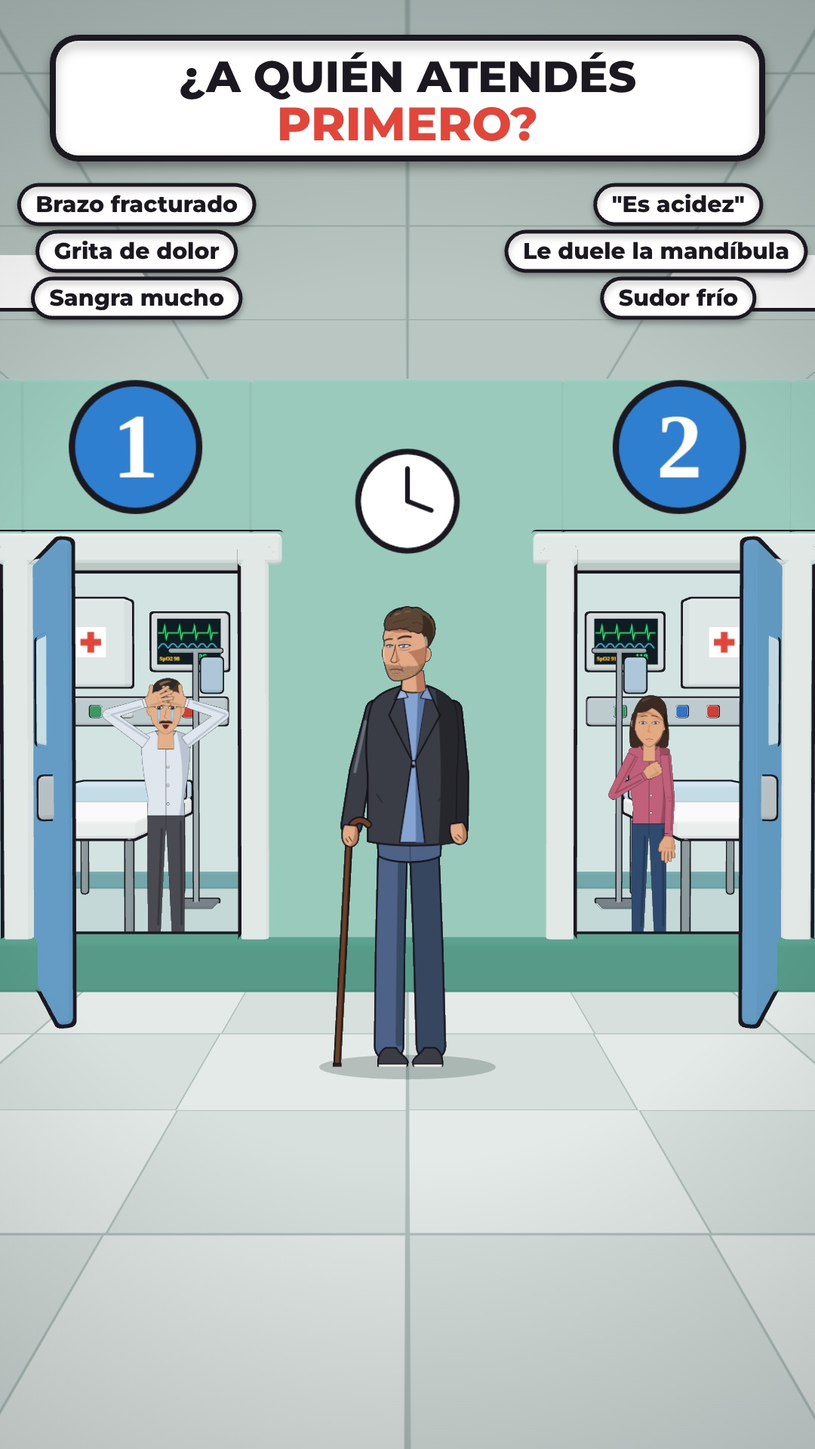
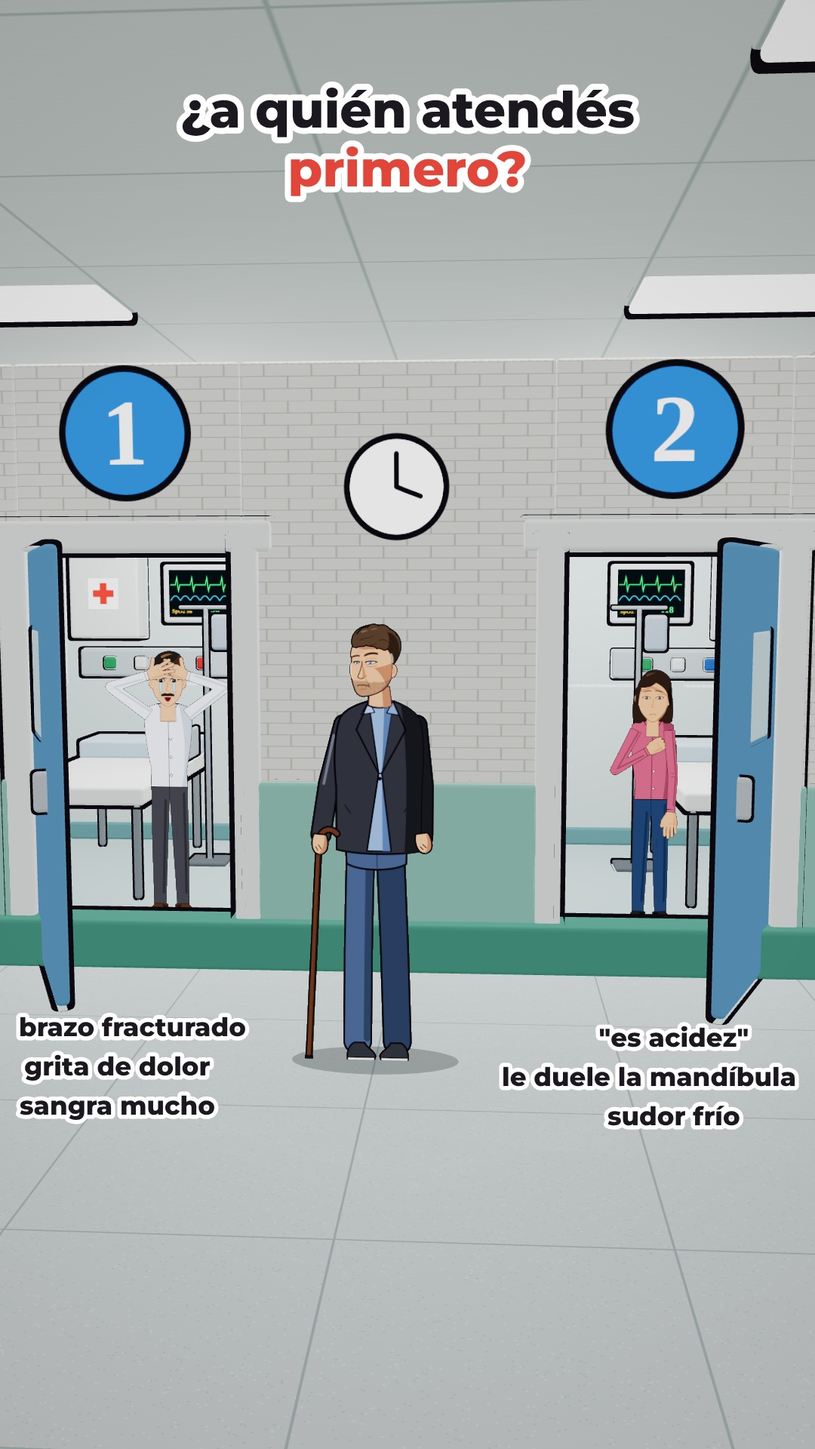
Puertas 3D: look más cercano al video de referencia (sombras suaves, azulejos, cámara en diagonal, textos con borde)
Claude-Session: https://claude.ai/code/session_01GkkXfD2Nm3TmxvYx4d4aPy

diff --git a/herramientas/marvel/puertas3d_v1.js b/herramientas/marvel/puertas3d_v1.js
@@ -1,0 +1,152 @@
+// "Elegí la puerta": mundo 3D con acabado de dibujo (cel shading + contorno) y personajes 2D.
+import * as THREE from 'three';
+import { RoundedBoxGeometry } from 'three/addons/geometries/RoundedBoxGeometry.js';
+import { drawCharacter } from './estilo.js';
+import { EXPR, POSE } from './expr.js';
+import { houseFull } from './housefull.js';
+const W = 1080, H = 1920, Q = new URLSearchParams(location.search), REVEAL = !!Q.get('reveal');
+const INK = '#1b1820';
+const R = new THREE.WebGLRenderer({ antialias: true, preserveDrawingBuffer: true }); R.setSize(W, H); R.setPixelRatio(1); R.outputColorSpace = THREE.SRGBColorSpace;
+const S = new THREE.Scene(); S.background = new THREE.Color('#cfe6e0');
+const cam = new THREE.PerspectiveCamera(64, W / H, .05, 100);
+const grad = (() => { const c = document.createElement('canvas'); c.width = 3; c.height = 1; const x = c.getContext('2d'); ['#a3a3a3', '#dcdcdc', '#ffffff'].forEach((col, i) => { x.fillStyle = col; x.fillRect(i, 0, 1, 1); }); const t = new THREE.CanvasTexture(c); t.minFilter = t.magFilter = THREE.NearestFilter; t.generateMipmaps = false; return t; })();
+const toon = (c, map, ex = {}) => new THREE.MeshToonMaterial({ color: c, gradientMap: grad, map: map || null, ...ex });
+const HULL = new THREE.MeshBasicMaterial({ color: INK, side: THREE.BackSide });
+function tex(w, h, draw, rep) { const c = document.createElement('canvas'); c.width = w; c.height = h; draw(c.getContext('2d'), w, h); const t = new THREE.CanvasTexture(c); t.colorSpace = THREE.SRGBColorSpace; t.anisotropy = 8; if (rep) { t.wrapS = t.wrapT = THREE.RepeatWrapping; t.repeat.set(...rep); } return t; }
+// caja redondeada con contorno de tinta (casco invertido)
+function box(w, h, d, c, x, y, z, o = {}) {
+  const g = new RoundedBoxGeometry(w, h, d, 2, Math.min(o.r ?? .025, w / 2.1, h / 2.1, d / 2.1));
+  const m = new THREE.Mesh(g, o.mat || toon(c, o.map)); m.position.set(x, y, z); if (o.ry) m.rotation.y = o.ry;
+  if (o.line !== false) { const t = o.t ?? .018; const hl = new THREE.Mesh(g, HULL); hl.scale.set((w + 2 * t) / w, (h + 2 * t) / h, (d + 2 * t) / d); m.add(hl); }
+  (o.parent || S).add(m); return m;
+}
+function plane(w, h, c, x, y, z, rx = 0, ry = 0, map) { const m = new THREE.Mesh(new THREE.PlaneGeometry(w, h), toon(c, map)); m.position.set(x, y, z); m.rotation.set(rx, ry, 0); S.add(m); return m; }
+const ln = (pts, w = 3) => { const g = new THREE.BufferGeometry().setFromPoints(pts.map(p => new THREE.Vector3(...p))); const l = new THREE.Line(g, new THREE.LineBasicMaterial({ color: INK })); S.add(l); return l; };
+// ---------- sala de espera / fondo del pasillo
+const WX = 4.2, ZB = -5, HG = 3.2;
+const tiles = tex(512, 512, (x, w, h) => { x.fillStyle = '#e9efec'; x.fillRect(0, 0, w, h); x.fillStyle = '#dbe5e2'; x.fillRect(0, 0, w / 2, h / 2); x.fillRect(w / 2, h / 2, w / 2, h / 2); x.strokeStyle = '#b4c3c0'; x.lineWidth = 4; x.strokeRect(0, 0, w / 2, h / 2); x.strokeRect(w / 2, h / 2, w / 2, h / 2); }, [5, 6]);
+plane(WX * 2, 12, '#ffffff', 0, 0, ZB + 6, -Math.PI / 2, 0, tiles);
+const ceilT = tex(256, 256, (x, w, h) => { x.fillStyle = '#f6f8f7'; x.fillRect(0, 0, w, h); x.strokeStyle = '#c9d3d1'; x.lineWidth = 3; x.strokeRect(0, 0, w, h); }, [8, 12]);
+plane(WX * 2, 12, '#ffffff', 0, HG, ZB + 6, Math.PI / 2, 0, ceilT);
+// pared del fondo con huecos de puertas (3 paños + dintel)
+const DW = 1.2, DH = 2.25, DX = 1.42;
+const wallC = '#a9d9cb';
+const seg = (x0, x1) => box(x1 - x0, HG, .2, wallC, (x0 + x1) / 2, HG / 2, ZB, { line: false });
+seg(-WX, -DX - DW / 2); seg(-DX + DW / 2, DX - DW / 2); seg(DX + DW / 2, WX);
+for (const s of [-1, 1]) box(DW, HG - DH, .2, wallC, s * DX, DH + (HG - DH) / 2, ZB, { line: false });
+box(WX * 2, .26, .26, '#5fa592', 0, .13, ZB + .12, { t: .012 });                       // zócalo
+
+for (const s of [-1, 1]) {                                                             // paredes laterales
+  plane(12, HG, '#b9e2d6', s * WX, HG / 2, ZB + 6, 0, -s * Math.PI / 2);
+  box(.26, .26, 12, '#5fa592', s * (WX - .12), .13, ZB + 6, { t: .012 });
+}
+// puertas: marco, hoja abierta, cuarto detrás con camilla y ventana
+const rooms = [];
+for (const [s, n] of [[-1, 1], [1, 2]]) {
+  const cx = s * DX;
+  box(.14, DH + .1, .32, '#f7f9f8', cx - DW / 2 - .02, DH / 2, ZB, { t: .016 });
+  box(.14, DH + .1, .32, '#f7f9f8', cx + DW / 2 + .02, DH / 2, ZB, { t: .016 });
+  box(DW + .32, .16, .32, '#f7f9f8', cx, DH + .05, ZB, { t: .016 });
+  // hoja de la puerta abierta hacia adentro del cuarto (bisagra del lado externo)
+  const hinge = new THREE.Group(); hinge.position.set(cx + s * DW / 2, 0, ZB - .1); hinge.rotation.y = s * 1.15; S.add(hinge);
+  box(DW - .06, DH - .04, .07, '#6fa8d6', -s * (DW - .06) / 2, DH / 2, 0, { parent: hinge, t: .014 });
+  box(.4, .55, .08, '#d9eef8', -s * (DW - .06) / 2, 1.55, 0, { parent: hinge, t: .01 });
+  box(.05, .2, .1, '#c9cfd4', -s * (DW - .2), 1.05, .05, { parent: hinge, t: .008 });
+  // cuarto
+  const RZ = ZB - .1, RD = 3.2, RW = 3.0, inside = toon('#e6f3f4', null, REVEAL ? { emissive: n === 2 ? '#ff2a1a' : '#000000', emissiveIntensity: n === 2 ? .45 : 0, color: n === 1 ? '#7f8c8e' : '#e6f3f4' } : {});
+  const rm = new THREE.Group(); S.add(rm);
+  const rp = (w, h, x, y, z, rx, ry, c) => { const m = new THREE.Mesh(new THREE.PlaneGeometry(w, h), c ? toon(c) : inside); m.position.set(x, y, z); m.rotation.set(rx, ry, 0); rm.add(m); return m; };
+  rp(RW, HG, cx, HG / 2, RZ - RD, 0, 0);                                   // fondo
+  rp(RD, HG, cx - RW / 2, HG / 2, RZ - RD / 2, 0, Math.PI / 2);             // lados
+  rp(RD, HG, cx + RW / 2, HG / 2, RZ - RD / 2, 0, -Math.PI / 2);
+  rp(RW, RD, cx, 0, RZ - RD / 2, -Math.PI / 2, 0, '#c9dcdc');               // piso
+  rp(RW, RD, cx, HG, RZ - RD / 2, Math.PI / 2, 0, '#f6fbfb');
+  box(RW, .14, .05, '#7fb3b8', cx, .07, RZ - RD + .03, { line: false });
+  // panel de cabecera con tomas de oxígeno
+  const BX = cx + s * .7, BZ = RZ - 2.0;
+  box(1.3, .22, .1, '#cfd9de', BX, 1.45, RZ - RD + .06, { t: .012 });
+  for (const [k, c] of [[-.4, '#3fa66a'], [-.15, '#f2f2f2'], [.1, '#3a7bd5'], [.35, '#e2453a']]) box(.09, .09, .05, c, BX + k, 1.45, RZ - RD + .13, { t: .008, r: .02 });
+  // monitor de signos vitales en brazo de pared
+  const ecg = tex(512, 384, (x, w, h) => { x.fillStyle = '#0f1d22'; x.fillRect(0, 0, w, h); x.strokeStyle = '#2dff8a'; x.lineWidth = 6; x.beginPath(); let px = 10; x.moveTo(px, 120); for (let k = 0; k < 4; k++) { x.lineTo(px + 40, 120); x.lineTo(px + 52, 60); x.lineTo(px + 64, 170); x.lineTo(px + 76, 120); px += 120; x.lineTo(px, 120); } x.stroke();
+    x.strokeStyle = '#4fd3ff'; x.beginPath(); x.moveTo(10, 250); for (let k = 0; k < 480; k += 8) x.lineTo(10 + k, 250 - Math.abs(Math.sin(k / 25)) * 40); x.stroke();
+    x.font = '800 70px Montserrat'; x.fillStyle = '#2dff8a'; x.fillText(n === 2 ? '118' : '96', 330, 345); x.fillStyle = '#ffd23f'; x.font = '800 44px Montserrat'; x.fillText('SpO2 ' + (n === 2 ? '91' : '98'), 20, 350); });
+  const MX = cx + s * .3, MZ = RZ - RD + .32;
+  box(.04, .04, .28, '#9aa5ab', MX, 2.0, RZ - RD + .17, { t: .006 });
+  box(.6, .45, .1, '#e7ebee', MX, 2.0, MZ, { t: .014 });
+  const scr = new THREE.Mesh(new THREE.PlaneGeometry(.5, .36), new THREE.MeshBasicMaterial({ map: ecg, color: REVEAL && n === 1 ? '#777777' : '#ffffff' })); scr.position.set(MX, 2.0, MZ + .052); rm.add(scr);
+  // gabinete con cruz roja
+  const cross = tex(256, 256, (x, w, h) => { x.fillStyle = '#ffffff'; x.fillRect(0, 0, w, h); x.fillStyle = '#e2453a'; x.fillRect(98, 40, 60, 176); x.fillRect(40, 98, 176, 60); });
+  box(.55, .7, .25, '#f4f7f8', cx + s * 1.1, 2.0, RZ - RD + .14, { t: .014 });
+  const cr = new THREE.Mesh(new THREE.PlaneGeometry(.24, .24), new THREE.MeshBasicMaterial({ map: cross })); cr.position.set(cx + s * 1.1, 2.0, RZ - RD + .27); rm.add(cr);
+  // soporte de suero
+  const IX = cx + s * .15, IZ = RZ - 2.3;
+  box(.035, 1.9, .035, '#aeb8be', IX, .95, IZ, { t: .008 }); box(.4, .03, .03, '#aeb8be', IX, 1.9, IZ, { t: .006 });
+  box(.16, .26, .06, '#cfeaff', IX + .12, 1.72, IZ, { t: .01, r: .04, mat: toon('#cfeaff', null, { transparent: true, opacity: .9 }) });
+  box(.3, .03, .3, '#7b858c', IX, .02, IZ, { t: .008 });
+  // cortina de box
+  box(.04, .04, 2.6, '#c3ccd1', cx - s * 1.4, 2.6, RZ - 1.6, { t: .006 });
+  for (let k = 0; k < 6; k++) box(.08, 1.9, .3, k % 2 ? '#9fd3c4' : '#b6e0d3', cx - s * (1.38 - (k % 2) * .05), 1.6, RZ - 2.8 + k * .26, { t: .01, r: .03 });
+  // camilla
+  box(.9, .12, 1.9, '#ffffff', cx + s * .75, .7, RZ - 2.0, { t: .014 }); box(.88, .14, .5, '#d6ecf7', cx + s * .75, .82, RZ - 2.75, { t: .012 });
+  box(.04, .22, 1.0, '#c9d2d7', cx + s * .75 - s * .47, .9, RZ - 2.0, { t: .008 });
+  for (const [ax, az] of [[-.38, -.85], [.38, -.85], [-.38, .85], [.38, .85]]) box(.05, .62, .05, '#9aa5ab', cx + s * .75 + ax, .32, RZ - 2.0 + az, { t: .008 });
+  // cartel con número arriba de la puerta
+  const sign = tex(256, 256, (x, w, h) => { x.fillStyle = REVEAL ? (n === 2 ? '#e2453a' : '#8a9496') : '#2f7fd0'; x.beginPath(); x.arc(128, 128, 118, 0, 7); x.fill(); x.lineWidth = 12; x.strokeStyle = INK; x.stroke(); x.fillStyle = '#fff'; x.font = '800 170px Montserrat'; x.textAlign = 'center'; x.textBaseline = 'middle'; x.fillText(n, 128, 140); });
+  const sg = new THREE.Mesh(new THREE.CircleGeometry(.36, 48), new THREE.MeshBasicMaterial({ map: sign, transparent: true })); sg.position.set(cx, DH + .58, ZB + .13); S.add(sg);
+  rooms.push({ cx, n, rm });
+}
+// detalles de la sala: banco, planta, dispenser, reloj, luces de techo
+box(.38, .45, .38, '#d97a4a', WX - .45, .23, ZB + .5, { t: .014 });
+for (let i = 0; i < 7; i++) { const a = i / 7 * Math.PI * 2; const lf = box(.12, .7, .03, '#4fae6c', WX - .45 + Math.cos(a) * .1, .75, ZB + .5 + Math.sin(a) * .1, { t: .01, r: .05 }); lf.rotation.set(Math.sin(a) * .5, a, Math.cos(a) * .5); }
+const clock = tex(256, 256, (x) => { x.fillStyle = '#fff'; x.beginPath(); x.arc(128, 128, 118, 0, 7); x.fill(); x.lineWidth = 14; x.strokeStyle = INK; x.stroke(); x.lineCap = 'round'; x.lineWidth = 12; x.beginPath(); x.moveTo(128, 128); x.lineTo(128, 50); x.moveTo(128, 128); x.lineTo(185, 150); x.stroke(); });
+const ck = new THREE.Mesh(new THREE.CircleGeometry(.28, 40), new THREE.MeshBasicMaterial({ map: clock, transparent: true })); ck.position.set(0, 2.55, ZB + .12); S.add(ck);
+for (const z of [ZB + 1.5, ZB + 4, ZB + 6.5]) for (const x of [-1.6, 1.6]) box(1.1, .04, .5, '#ffffff', x, HG - .02, z, { t: .012, mat: new THREE.MeshBasicMaterial({ color: '#ffffff' }) });
+S.add(new THREE.HemisphereLight('#ffffff', '#b9cfc9', 1.7));
+const sun = new THREE.DirectionalLight('#ffffff', 1.3); sun.position.set(-2, 5, 4); S.add(sun);
+// ---------- personajes 2D como carteles dentro del mundo
+async function svgTex(svg, w, h) { const img = new Image(); const u = URL.createObjectURL(new Blob([svg], { type: 'image/svg+xml' })); await new Promise(r => { img.onload = r; img.src = u; }); const c = document.createElement('canvas'); c.width = w; c.height = h; c.getContext('2d').drawImage(img, 0, 0, w, h); URL.revokeObjectURL(u); const t = new THREE.CanvasTexture(c); t.colorSpace = THREE.SRGBColorSpace; t.anisotropy = 8; return t; }
+async function person(svgInner, vb, upm, x, z, opts = {}) {
+  const [vx, vy, vw, vh] = vb, pw = vw / upm, ph = vh / upm, px = 900, py = Math.round(px * vh / vw);
+  const t = await svgTex(`<svg xmlns="http://www.w3.org/2000/svg" width="${px}" height="${py}" viewBox="${vb.join(' ')}">${svgInner}</svg>`, px, py);
+  const m = new THREE.Mesh(new THREE.PlaneGeometry(pw, ph), new THREE.MeshBasicMaterial({ map: t, transparent: true, alphaTest: .4, color: opts.tint || '#ffffff' }));
+  m.position.set(x + (vx + vw / 2) / upm, -(vy + vh / 2) / upm, z); S.add(m);
+  const sh = new THREE.Mesh(new THREE.CircleGeometry(.36, 32), new THREE.MeshBasicMaterial({ color: '#0d2420', transparent: true, opacity: .22 })); sh.rotation.x = -Math.PI / 2; sh.scale.set(1, .45, 1); sh.position.set(x, .005, z); S.add(sh);
+  return m;
+}
+const dim = REVEAL ? '#7d8790' : '#ffffff';
+await person(drawCharacter('hombre', { face: { ...EXPR.shock, tears: .7, sweat: 1 }, ...POSE.headhold }), [-300, -1000, 600, 1010], 540, -DX - .05, ZB - .85, { tint: dim });
+await person(drawCharacter('madre', { face: { ...EXPR.worried, sweat: 1 }, ...POSE.chin }), [-300, -1000, 600, 1010], 540, DX + .05, ZB - .85);
+// House: cuerpo entero sin la sombra dibujada (la pone el piso)
+await person(houseFull().replace(/<ellipse[^>]*\/>/, ''), [-330, -1700, 640, 1712], 880, 0, ZB + 1.5);
+cam.position.set(0, 1.45, ZB + 6.2); cam.lookAt(0, 1.38, ZB);
+// ---------- capa 2D encima: título, síntomas, cuenta regresiva
+const OUT = document.createElement('canvas'); OUT.width = W; OUT.height = H; const X = OUT.getContext('2d');
+const toScr = (x, y, z) => { const v = new THREE.Vector3(x, y, z).project(cam); return [(v.x + 1) / 2 * W, (1 - v.y) / 2 * H]; };
+function pill(x, y, w, h, fill, r, lw = 6) { X.beginPath(); X.roundRect(x, y, w, h, r); X.fillStyle = fill; X.fill(); X.lineWidth = lw; X.strokeStyle = INK; X.stroke(); }
+function text(s, x, y, size, col = INK, align = 'center') { X.font = `800 ${size}px Montserrat`; X.textAlign = align; X.textBaseline = 'middle'; X.fillStyle = col; X.fillText(s, x, y); }
+const chips = { 1: ['Brazo fracturado', 'Grita de dolor', 'Sangra mucho'], 2: ['"Es acidez"', 'Le duele la mandíbula', 'Sudor frío'] };
+window.renderFrame = async () => {
+  R.render(S, cam);
+  X.drawImage(R.domElement, 0, 0);
+  // grano de papel suave + viñeta
+  const v = X.createRadialGradient(W / 2, H * .5, H * .3, W / 2, H * .5, H * .8); v.addColorStop(0, 'rgba(0,0,0,0)'); v.addColorStop(1, 'rgba(10,30,30,.35)'); X.fillStyle = v; X.fillRect(0, 0, W, H);
+  // título
+  X.save(); X.shadowColor = 'rgba(0,0,0,.3)'; X.shadowOffsetY = 8; X.shadowBlur = 14; pill(70, 50, 940, 160, '#ffffff', 34, 8); X.restore();
+  text('¿A QUIÉN ATENDÉS', 540, 105, 58); text('PRIMERO?', 540, 168, 62, '#e2453a');
+  // síntomas sobre cada puerta (anclados a la posición 3D)
+  for (const { cx, n } of rooms) {
+    const [sx, sy] = toScr(cx, DH + .95, ZB + .1);
+    chips[n].forEach((c, i) => { X.font = '800 30px Montserrat'; const w = X.measureText(c).width + 44, y = 245 + i * 62; const x = Math.min(Math.max(sx, w / 2 + 12), W - w / 2 - 12);
+      X.save(); X.shadowColor = 'rgba(0,0,0,.25)'; X.shadowOffsetY = 5; X.shadowBlur = 8; pill(x - w / 2, y, w, 52, REVEAL && n === 1 ? '#d6dadc' : '#ffffff', 26, 5); X.restore(); text(c, x, y + 27, 30); });
+  }
+  if (REVEAL) { const [sx, sy] = toScr(DX, 1.0, ZB - .2); X.save(); X.translate(sx, sy); X.rotate(-.1); X.shadowColor = 'rgba(0,0,0,.35)'; X.shadowOffsetY = 8; X.shadowBlur = 12; pill(-200, -55, 400, 110, '#e2453a', 18, 8); X.restore(); X.save(); X.translate(sx, sy); X.rotate(-.1); text('¡INFARTO!', 0, 4, 62, '#fff'); X.restore(); }
+  // banda inferior
+  if (REVEAL && !Q.get('nodato')) { X.save(); X.shadowColor = 'rgba(0,0,0,.3)'; X.shadowOffsetY = -6; X.shadowBlur = 16; pill(-10, 1690, 1100, 260, '#ffffff', 0, 8); X.restore(); }
+  if (!REVEAL && Q.get('cta')) {
+    text('COMENTÁ', 320, 1775, 58); text('1  o  2', 320, 1850, 70, '#2f7fd0');
+    X.beginPath(); X.arc(820, 1700, 120, 0, 7); X.fillStyle = '#ffd23f'; X.fill(); X.lineWidth = 9; X.strokeStyle = INK; X.stroke();
+    X.beginPath(); X.arc(820, 1700, 98, -Math.PI / 2, -Math.PI / 2 + Math.PI * 2 * .8); X.lineWidth = 18; X.lineCap = 'round'; X.strokeStyle = '#e2453a'; X.stroke(); text('5', 820, 1708, 120);
+  } else if (REVEAL && !Q.get('nodato')) { text('En mujeres, el infarto', 540, 1760, 50); text('puede parecer ACIDEZ', 540, 1840, 58, '#e2453a'); }
+  return OUT.toDataURL('image/jpeg', .93);
+};
+await document.fonts.load('800 40px Montserrat'); window.ready = true;

diff --git a/herramientas/marvel/puertas3d.js b/herramientas/marvel/puertas3d.js
@@ -6,38 +6,39 @@ import { EXPR, POSE } from './expr.js';
 import { houseFull } from './housefull.js';
 const W = 1080, H = 1920, Q = new URLSearchParams(location.search), REVEAL = !!Q.get('reveal');
 const INK = '#1b1820';
-const R = new THREE.WebGLRenderer({ antialias: true, preserveDrawingBuffer: true }); R.setSize(W, H); R.setPixelRatio(1); R.outputColorSpace = THREE.SRGBColorSpace;
-const S = new THREE.Scene(); S.background = new THREE.Color('#cfe6e0');
+const R = new THREE.WebGLRenderer({ antialias: true, preserveDrawingBuffer: true }); R.setSize(W, H); R.setPixelRatio(1); R.outputColorSpace = THREE.SRGBColorSpace; R.shadowMap.enabled = true; R.shadowMap.type = THREE.PCFSoftShadowMap; R.toneMapping = THREE.ACESFilmicToneMapping; R.toneMappingExposure = 1.05;
+const S = new THREE.Scene(); S.background = new THREE.Color('#e9ecea');
 const cam = new THREE.PerspectiveCamera(64, W / H, .05, 100);
 const grad = (() => { const c = document.createElement('canvas'); c.width = 3; c.height = 1; const x = c.getContext('2d'); ['#a3a3a3', '#dcdcdc', '#ffffff'].forEach((col, i) => { x.fillStyle = col; x.fillRect(i, 0, 1, 1); }); const t = new THREE.CanvasTexture(c); t.minFilter = t.magFilter = THREE.NearestFilter; t.generateMipmaps = false; return t; })();
-const toon = (c, map, ex = {}) => new THREE.MeshToonMaterial({ color: c, gradientMap: grad, map: map || null, ...ex });
+const toon = (c, map, ex = {}) => new THREE.MeshStandardMaterial({ color: c, roughness: .85, metalness: 0, map: map || null, ...ex });
 const HULL = new THREE.MeshBasicMaterial({ color: INK, side: THREE.BackSide });
 function tex(w, h, draw, rep) { const c = document.createElement('canvas'); c.width = w; c.height = h; draw(c.getContext('2d'), w, h); const t = new THREE.CanvasTexture(c); t.colorSpace = THREE.SRGBColorSpace; t.anisotropy = 8; if (rep) { t.wrapS = t.wrapT = THREE.RepeatWrapping; t.repeat.set(...rep); } return t; }
 // caja redondeada con contorno de tinta (casco invertido)
 function box(w, h, d, c, x, y, z, o = {}) {
   const g = new RoundedBoxGeometry(w, h, d, 2, Math.min(o.r ?? .025, w / 2.1, h / 2.1, d / 2.1));
   const m = new THREE.Mesh(g, o.mat || toon(c, o.map)); m.position.set(x, y, z); if (o.ry) m.rotation.y = o.ry;
-  if (o.line !== false) { const t = o.t ?? .018; const hl = new THREE.Mesh(g, HULL); hl.scale.set((w + 2 * t) / w, (h + 2 * t) / h, (d + 2 * t) / d); m.add(hl); }
+  if (o.line !== false) { const t = (o.t ?? .018) * 1.5; const hl = new THREE.Mesh(g, HULL); hl.scale.set((w + 2 * t) / w, (h + 2 * t) / h, (d + 2 * t) / d); m.add(hl); }
   (o.parent || S).add(m); return m;
 }
 function plane(w, h, c, x, y, z, rx = 0, ry = 0, map) { const m = new THREE.Mesh(new THREE.PlaneGeometry(w, h), toon(c, map)); m.position.set(x, y, z); m.rotation.set(rx, ry, 0); S.add(m); return m; }
 const ln = (pts, w = 3) => { const g = new THREE.BufferGeometry().setFromPoints(pts.map(p => new THREE.Vector3(...p))); const l = new THREE.Line(g, new THREE.LineBasicMaterial({ color: INK })); S.add(l); return l; };
 // ---------- sala de espera / fondo del pasillo
 const WX = 4.2, ZB = -5, HG = 3.2;
-const tiles = tex(512, 512, (x, w, h) => { x.fillStyle = '#e9efec'; x.fillRect(0, 0, w, h); x.fillStyle = '#dbe5e2'; x.fillRect(0, 0, w / 2, h / 2); x.fillRect(w / 2, h / 2, w / 2, h / 2); x.strokeStyle = '#b4c3c0'; x.lineWidth = 4; x.strokeRect(0, 0, w / 2, h / 2); x.strokeRect(w / 2, h / 2, w / 2, h / 2); }, [5, 6]);
+const tiles = tex(512, 512, (x, w, h) => { x.fillStyle = '#d9e3e3'; x.fillRect(0, 0, w, h); let sd = 7; const rnd = () => (sd = (sd * 16807) % 2147483647) / 2147483647; for (let k = 0; k < 900; k++) { x.fillStyle = rnd() > .5 ? '#c6d2d3' : '#eef3f2'; x.fillRect(rnd() * w, rnd() * h, 3, 3); } x.strokeStyle = '#aebcbd'; x.lineWidth = 4; x.strokeRect(0, 0, w, h); }, [8, 12]);
 plane(WX * 2, 12, '#ffffff', 0, 0, ZB + 6, -Math.PI / 2, 0, tiles);
 const ceilT = tex(256, 256, (x, w, h) => { x.fillStyle = '#f6f8f7'; x.fillRect(0, 0, w, h); x.strokeStyle = '#c9d3d1'; x.lineWidth = 3; x.strokeRect(0, 0, w, h); }, [8, 12]);
 plane(WX * 2, 12, '#ffffff', 0, HG, ZB + 6, Math.PI / 2, 0, ceilT);
 // pared del fondo con huecos de puertas (3 paños + dintel)
 const DW = 1.2, DH = 2.25, DX = 1.42;
-const wallC = '#a9d9cb';
-const seg = (x0, x1) => box(x1 - x0, HG, .2, wallC, (x0 + x1) / 2, HG / 2, ZB, { line: false });
+const wallC = '#ffffff';
+const subway = (w, h) => tex(512, 512, (x, W2, H2) => { x.fillStyle = '#f4f3ee'; x.fillRect(0, 0, W2, H2); x.strokeStyle = '#cfcec7'; x.lineWidth = 5; for (let r = 0; r < 8; r++) { const y = r * 64; x.beginPath(); x.moveTo(0, y); x.lineTo(W2, y); x.stroke(); for (let c = 0; c < 5; c++) { const xx = c * 128 + (r % 2) * 64; x.beginPath(); x.moveTo(xx, y); x.lineTo(xx, y + 64); x.stroke(); } } }, [w / 1.0, h / .5]);
+const seg = (x0, x1) => { box(x1 - x0, HG, .2, wallC, (x0 + x1) / 2, HG / 2, ZB, { line: false, map: subway(x1 - x0, HG) }); box(x1 - x0, 1.0, .06, '#9ccfc2', (x0 + x1) / 2, .5, ZB + .12, { t: .01 }); };
 seg(-WX, -DX - DW / 2); seg(-DX + DW / 2, DX - DW / 2); seg(DX + DW / 2, WX);
-for (const s of [-1, 1]) box(DW, HG - DH, .2, wallC, s * DX, DH + (HG - DH) / 2, ZB, { line: false });
+for (const s of [-1, 1]) box(DW, HG - DH, .2, wallC, s * DX, DH + (HG - DH) / 2, ZB, { line: false, map: subway(DW, HG - DH) });
 box(WX * 2, .26, .26, '#5fa592', 0, .13, ZB + .12, { t: .012 });                       // zócalo
 
 for (const s of [-1, 1]) {                                                             // paredes laterales
-  plane(12, HG, '#b9e2d6', s * WX, HG / 2, ZB + 6, 0, -s * Math.PI / 2);
+  plane(12, HG, '#ffffff', s * WX, HG / 2, ZB + 6, 0, -s * Math.PI / 2, subway(12, HG));
   box(.26, .26, 12, '#5fa592', s * (WX - .12), .13, ZB + 6, { t: .012 });
 }
 // puertas: marco, hoja abierta, cuarto detrás con camilla y ventana
@@ -101,8 +102,11 @@ for (let i = 0; i < 7; i++) { const a = i / 7 * Math.PI * 2; const lf = box(.12,
 const clock = tex(256, 256, (x) => { x.fillStyle = '#fff'; x.beginPath(); x.arc(128, 128, 118, 0, 7); x.fill(); x.lineWidth = 14; x.strokeStyle = INK; x.stroke(); x.lineCap = 'round'; x.lineWidth = 12; x.beginPath(); x.moveTo(128, 128); x.lineTo(128, 50); x.moveTo(128, 128); x.lineTo(185, 150); x.stroke(); });
 const ck = new THREE.Mesh(new THREE.CircleGeometry(.28, 40), new THREE.MeshBasicMaterial({ map: clock, transparent: true })); ck.position.set(0, 2.55, ZB + .12); S.add(ck);
 for (const z of [ZB + 1.5, ZB + 4, ZB + 6.5]) for (const x of [-1.6, 1.6]) box(1.1, .04, .5, '#ffffff', x, HG - .02, z, { t: .012, mat: new THREE.MeshBasicMaterial({ color: '#ffffff' }) });
-S.add(new THREE.HemisphereLight('#ffffff', '#b9cfc9', 1.7));
-const sun = new THREE.DirectionalLight('#ffffff', 1.3); sun.position.set(-2, 5, 4); S.add(sun);
+S.add(new THREE.HemisphereLight('#ffffff', '#c9d2cf', 1.9));
+const sun = new THREE.DirectionalLight('#fff6ea', 1.6); sun.position.set(-3, 6, 5); sun.castShadow = true; sun.shadow.mapSize.set(2048, 2048); sun.shadow.radius = 6; sun.shadow.bias = -.0008;
+Object.assign(sun.shadow.camera, { left: -6, right: 6, top: 6, bottom: -6, near: .5, far: 30 }); sun.target.position.set(0, 0, ZB); S.add(sun, sun.target);
+const roomLamp = []; for (const s2 of [-1, 1]) { const l = new THREE.PointLight('#ffffff', 2.2, 5, 1.2); l.position.set(s2 * DX, 2.6, ZB - 1.6); S.add(l); }
+S.traverse(o => { if (o.isMesh) { const hull = o.material === HULL; o.castShadow = !hull && !(o.material.isMeshBasicMaterial); o.receiveShadow = !hull; } });
 // ---------- personajes 2D como carteles dentro del mundo
 async function svgTex(svg, w, h) { const img = new Image(); const u = URL.createObjectURL(new Blob([svg], { type: 'image/svg+xml' })); await new Promise(r => { img.onload = r; img.src = u; }); const c = document.createElement('canvas'); c.width = w; c.height = h; c.getContext('2d').drawImage(img, 0, 0, w, h); URL.revokeObjectURL(u); const t = new THREE.CanvasTexture(c); t.colorSpace = THREE.SRGBColorSpace; t.anisotropy = 8; return t; }
 async function person(svgInner, vb, upm, x, z, opts = {}) {
@@ -118,28 +122,27 @@ await person(drawCharacter('hombre', { face: { ...EXPR.shock, tears: .7, sweat: 
 await person(drawCharacter('madre', { face: { ...EXPR.worried, sweat: 1 }, ...POSE.chin }), [-300, -1000, 600, 1010], 540, DX + .05, ZB - .85);
 // House: cuerpo entero sin la sombra dibujada (la pone el piso)
 await person(houseFull().replace(/<ellipse[^>]*\/>/, ''), [-330, -1700, 640, 1712], 880, 0, ZB + 1.5);
-cam.position.set(0, 1.45, ZB + 6.2); cam.lookAt(0, 1.38, ZB);
+cam.fov = 60; cam.updateProjectionMatrix(); cam.position.set(.45, 2.0, ZB + 6.7); cam.lookAt(.05, 1.3, ZB);
 // ---------- capa 2D encima: título, síntomas, cuenta regresiva
 const OUT = document.createElement('canvas'); OUT.width = W; OUT.height = H; const X = OUT.getContext('2d');
 const toScr = (x, y, z) => { const v = new THREE.Vector3(x, y, z).project(cam); return [(v.x + 1) / 2 * W, (1 - v.y) / 2 * H]; };
 function pill(x, y, w, h, fill, r, lw = 6) { X.beginPath(); X.roundRect(x, y, w, h, r); X.fillStyle = fill; X.fill(); X.lineWidth = lw; X.strokeStyle = INK; X.stroke(); }
-function text(s, x, y, size, col = INK, align = 'center') { X.font = `800 ${size}px Montserrat`; X.textAlign = align; X.textBaseline = 'middle'; X.fillStyle = col; X.fillText(s, x, y); }
-const chips = { 1: ['Brazo fracturado', 'Grita de dolor', 'Sangra mucho'], 2: ['"Es acidez"', 'Le duele la mandíbula', 'Sudor frío'] };
+function text(s, x, y, size, col = INK, align = 'center', stroke = 0) { X.font = `800 ${size}px Montserrat`; X.textAlign = align; X.textBaseline = 'middle'; if (stroke) { X.lineJoin = 'round'; X.lineWidth = stroke; X.strokeStyle = '#ffffff'; X.strokeText(s, x, y); } X.fillStyle = col; X.fillText(s, x, y); }
+const chips = { 1: ['brazo fracturado', 'grita de dolor', 'sangra mucho'], 2: ['"es acidez"', 'le duele la mandíbula', 'sudor frío'] };
 window.renderFrame = async () => {
   R.render(S, cam);
   X.drawImage(R.domElement, 0, 0);
   // grano de papel suave + viñeta
-  const v = X.createRadialGradient(W / 2, H * .5, H * .3, W / 2, H * .5, H * .8); v.addColorStop(0, 'rgba(0,0,0,0)'); v.addColorStop(1, 'rgba(10,30,30,.35)'); X.fillStyle = v; X.fillRect(0, 0, W, H);
+  const v = X.createRadialGradient(W / 2, H * .5, H * .3, W / 2, H * .5, H * .8); v.addColorStop(0, 'rgba(0,0,0,0)'); v.addColorStop(1, 'rgba(40,40,30,.18)'); X.fillStyle = v; X.fillRect(0, 0, W, H);
   // título
-  X.save(); X.shadowColor = 'rgba(0,0,0,.3)'; X.shadowOffsetY = 8; X.shadowBlur = 14; pill(70, 50, 940, 160, '#ffffff', 34, 8); X.restore();
-  text('¿A QUIÉN ATENDÉS', 540, 105, 58); text('PRIMERO?', 540, 168, 62, '#e2453a');
+  text('¿a quién atendés', 540, 150, 66, INK, 'center', 16); text('primero?', 540, 228, 66, '#e2453a', 'center', 16);
   // síntomas sobre cada puerta (anclados a la posición 3D)
   for (const { cx, n } of rooms) {
-    const [sx, sy] = toScr(cx, DH + .95, ZB + .1);
-    chips[n].forEach((c, i) => { X.font = '800 30px Montserrat'; const w = X.measureText(c).width + 44, y = 245 + i * 62; const x = Math.min(Math.max(sx, w / 2 + 12), W - w / 2 - 12);
-      X.save(); X.shadowColor = 'rgba(0,0,0,.25)'; X.shadowOffsetY = 5; X.shadowBlur = 8; pill(x - w / 2, y, w, 52, REVEAL && n === 1 ? '#d6dadc' : '#ffffff', 26, 5); X.restore(); text(c, x, y + 27, 30); });
+    const [sx, sy] = toScr(cx, 0, ZB + .5);
+    chips[n].forEach((c, i) => { X.font = '800 34px Montserrat'; const w = X.measureText(c).width + 30, y = sy + 60 + i * 52; const x = Math.min(Math.max(sx, w / 2 + 10), W - w / 2 - 10);
+      text(c.toLowerCase(), x, y, 34, REVEAL && n === 1 ? '#8a9496' : INK, 'center', 11); });
   }
-  if (REVEAL) { const [sx, sy] = toScr(DX, 1.0, ZB - .2); X.save(); X.translate(sx, sy); X.rotate(-.1); X.shadowColor = 'rgba(0,0,0,.35)'; X.shadowOffsetY = 8; X.shadowBlur = 12; pill(-200, -55, 400, 110, '#e2453a', 18, 8); X.restore(); X.save(); X.translate(sx, sy); X.rotate(-.1); text('¡INFARTO!', 0, 4, 62, '#fff'); X.restore(); }
+  if (REVEAL) { const [sx, sy] = toScr(DX, 1.0, ZB - .2); X.save(); X.translate(sx, sy); X.rotate(-.1); X.shadowColor = 'rgba(0,0,0,.35)'; X.shadowOffsetY = 8; X.shadowBlur = 12; X.restore(); X.save(); X.translate(sx, sy); X.rotate(-.06); text('¡infarto!', 0, 4, 76, '#e2453a', 'center', 18); X.restore(); }
   // banda inferior
   if (REVEAL && !Q.get('nodato')) { X.save(); X.shadowColor = 'rgba(0,0,0,.3)'; X.shadowOffsetY = -6; X.shadowBlur = 16; pill(-10, 1690, 1100, 260, '#ffffff', 0, 8); X.restore(); }
   if (!REVEAL && Q.get('cta')) {
